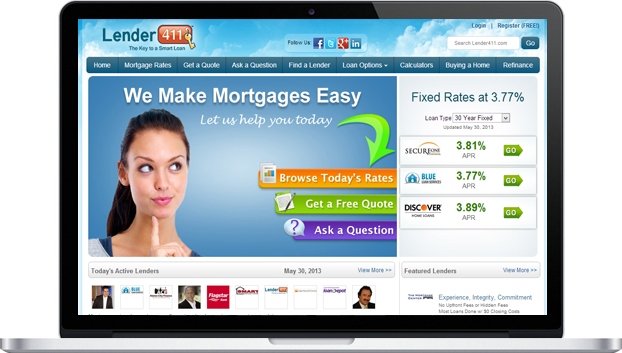
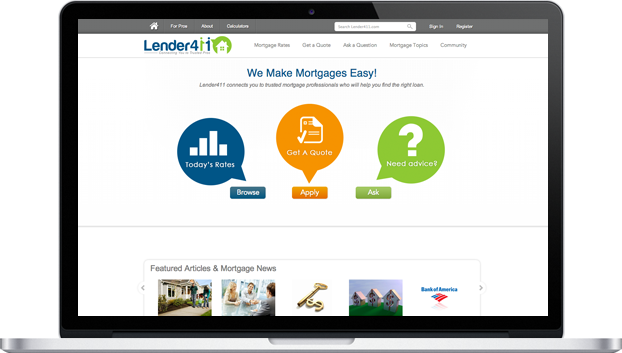
added new lender411 website to portfolio

diff --git a/index.html b/index.html
@@ -331,7 +331,7 @@
 		
    			<div class="row">				 
      				<div class="span4" >
-     				<h3>Lender411/LenderHomePage.com</h3>
+     				<h3>Lender411<br />LenderHomePage.com</h3>
      				<h4>Website Design | Front-End Development | Mobile Development</h4>
                                 <p>Currently I work for Celesto Technologies, Inc. A web development firm in Orange County. There we also develop and maintain Lender411.com which is one of the largest online portals for consumers and mortgage professionals. Connecting consumers with lenders who answer questions and give info about mortgages. It also servers as a leads marketplace for lenders all across the country. We are currently going through a re-brand and will have a fresh, lively, and sophisticated new look within the coming months.  </p>
                                 <a class="btn btn-red" href="http://www.lender411.com" target="_blank">See On-line <i class="icon-globe icon-white"></i></a>
@@ -340,6 +340,8 @@
      				<div class="span8 flexslider hidden-phone " id="work4-slider">
 					<ul class="slides">
 	    				<li><img src="img/work05.png" alt=""></li>
+                         <li><img src="img/work05_3.png" alt=""></li>
+                          <li><img src="img/work05_4.png" alt=""></li>
                                         <li><img src="img/work05_2.png" alt=""></li>
                         
 						
